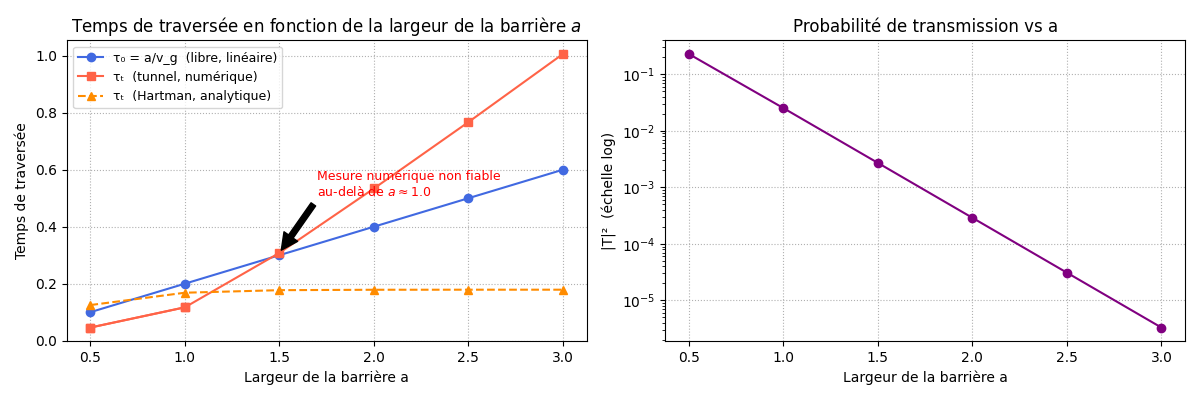
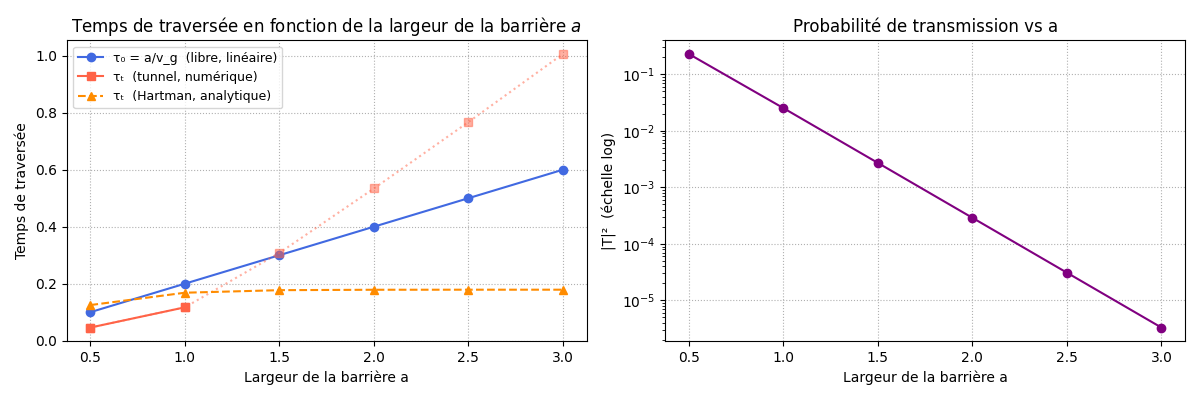
Correction graphique (la grosse flèche)

diff --git a/Partie 4/EffetTunnel1d2A.py b/Partie 4/EffetTunnel1d2A.py
@@ -403,7 +403,7 @@ def main():
     plt.tight_layout()
     plt.savefig("Figure_2_normes.png", dpi=100)
 
-    # --- Figure 3 : influence de a ---
+   # --- Figure 3 : influence de a ---
     fig3, axes3 = plt.subplots(1, 2, figsize=(12, 4))
 
     # Filtrer tau_t_num pour les valeurs fiables (a <= 1.0)
@@ -413,24 +413,15 @@ def main():
 
     axes3[0].plot(a_valeurs, tau_0_list, "o-", color="royalblue",
                   label="τ₀ = a/v_g  (libre, linéaire)")
-    axes3[0].plot(a_valeurs, tau_t_num_list, "s-", color="tomato",)
+    axes3[0].plot(a_valeurs, tau_t_num_list, "s-", color="tomato", linestyle=":", alpha=0.5)
     axes3[0].plot(a_reliable, tau_t_num_reliable, "s-", color="tomato",
                   label="τₜ  (tunnel, numérique)")
     axes3[0].plot(a_valeurs, tau_t_th_list, "^--", color="darkorange",
                   label="τₜ  (Hartman, analytique)")
     axes3[0].set_xlabel("Largeur de la barrière a")
     axes3[0].set_ylabel("Temps de traversée")
-    axes3[0].set_title("Effet Hartman : saturation de τₜ vs a")
     axes3[0].set_title(r'Temps de traversée en fonction de la largeur de la barrière $a$')
     axes3[0].legend(fontsize=9)
-    # Ajouter une annotation pour les valeurs non fiables
-    if len(a_valeurs) > 0 and np.any(np.array(a_valeurs) > 1.0):
-        first_unreliable_idx = np.where(np.array(a_valeurs) > 1.0)[0][0]
-        x_annotate = a_valeurs[first_unreliable_idx]
-        y_annotate = tau_t_num_list[first_unreliable_idx]
-        axes3[0].annotate('Mesure numérique non fiable\nau-delà de $a \\approx 1.0$',
-                          xy=(x_annotate, y_annotate), xytext=(x_annotate + 0.2, y_annotate + 0.2),
-                          arrowprops=dict(facecolor='black', shrink=0.05), fontsize=9, color='red')
     axes3[0].grid(True, linestyle=":")
 
     axes3[1].semilogy(a_valeurs, T2_list, "o-", color="purple")

diff --git a/TO-DO-LIST.md b/TO-DO-LIST.md
@@ -2,7 +2,7 @@
 
 - [X] `Partie 4/réponses-aux-questions.md` : ajouter l'explication du décrochage de τ_t,num au-delà de a≈1.5 (filtrage spectral / signal transmis trop faible face au bruit numérique) — actuellement seule la remarque vague à la ligne 77 en parle, sans la justification claire qui est dans le README de soutenance.
 - [X] `Partie 4/réponses-aux-questions.md` : ajouter l'explication de l'écart 8,1 % (mesuré) vs 2,5 % (|T(k₀)|² théorique) — paquet non monochromatique, transmission préférentielle des composantes rapides. Déjà bien rédigée diapo 8, juste à copier/adapter.
-- [ ] `Partie 4/Figure_3_influence_a.png` : corriger le titre (« saturation de τ_t ») qui contredit la courbe numérique affichée, ou n'afficher τ_t,num que pour a≤1 avec une annotation indiquant que la mesure n'est plus fiable au-delà.
+- [X] `Partie 4/Figure_3_influence_a.png` : corriger le titre (« saturation de τ_t ») qui contredit la courbe numérique affichée, ou n'afficher τ_t,num que pour a≤1 avec une annotation indiquant que la mesure n'est plus fiable au-delà.
 - [X] `Partie 4/EffetTunnel1d2A.py` : relancer la simulation avec nx/nt doublés (ex. nx=3000, nt=6000) pour vérifier si l'écart de 33 % sur τ_t,num à a=1 se réduit — préparer ce chiffre pour la soutenance.
 - [X] `Partie 4/réponses-aux-questions.md` : corriger les coquilles dans les tableaux — « 4.1.47 » → 4.472, « 14.1.0 » → 14.0, « 4.1.9×10⁻² » → 4.9×10⁻².
 
